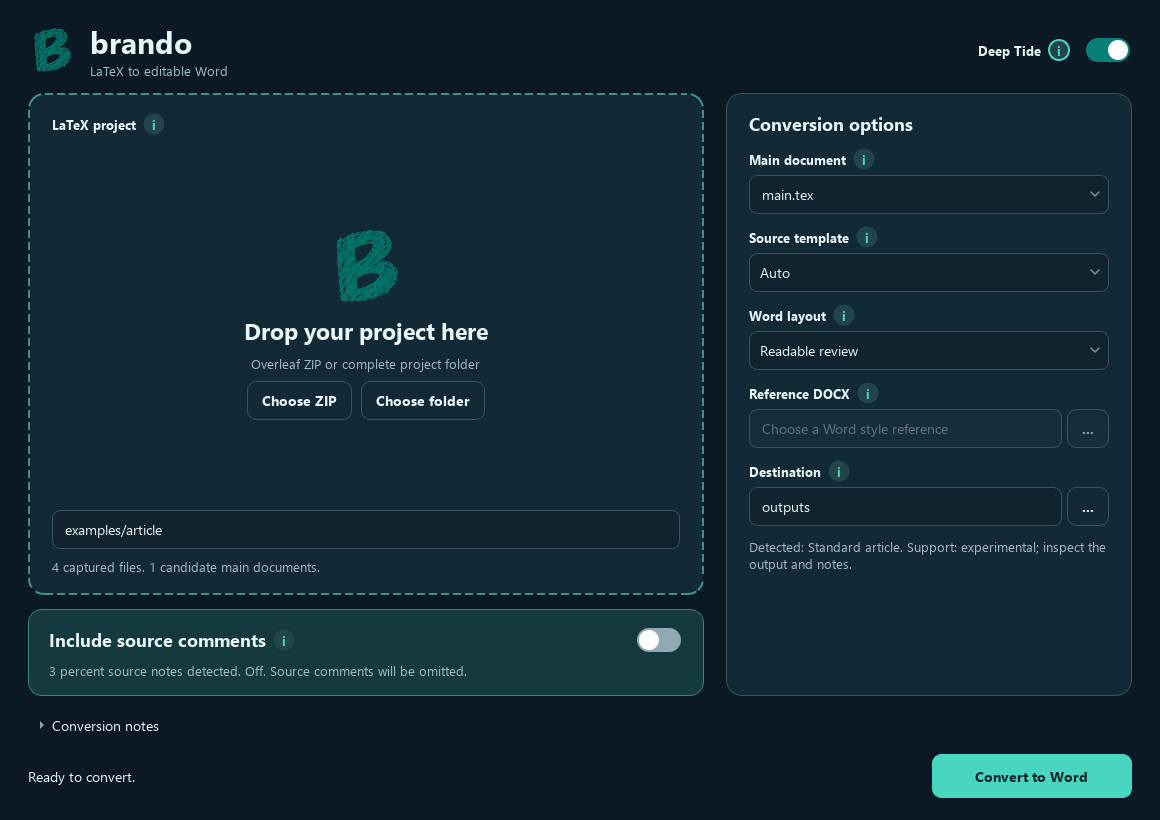
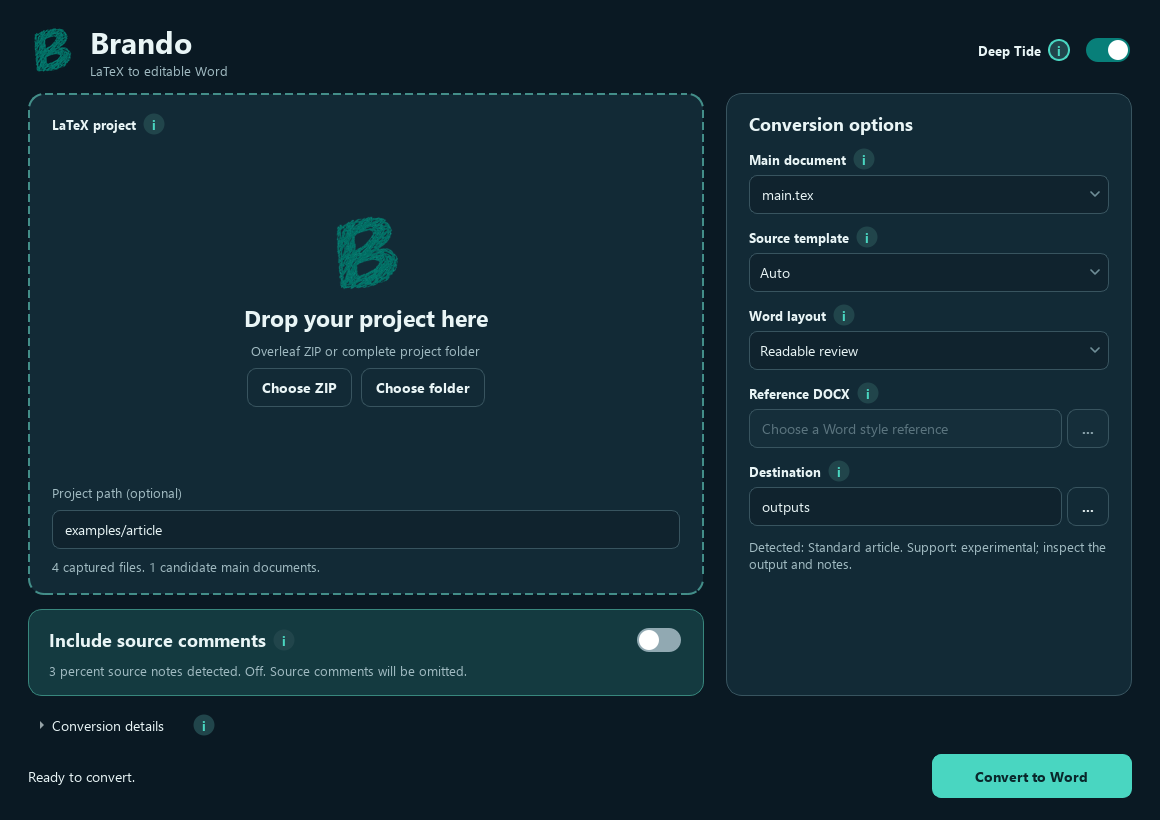
docs: explain conversion details and manual project entry

diff --git a/README.md b/README.md
@@ -15,7 +15,9 @@ directory together, unzip it to a writable local folder and open `Brando.exe`. E
 of this bundle do not need Python, Git, Pandoc or TeX. Public installation assets have not
 been published. See [build and validation instructions](docs/BUILDING.md).
 
-1. Select or drop an Overleaf **source ZIP** or a project folder.
+1. Select or drop an Overleaf **source ZIP** or a project folder. Alternatively, paste its
+   path in **Project path (optional)** and press **Enter** to load it. Moving focus alone
+   does not load a typed path; conversion stays disabled while a changed path is unconfirmed.
 2. Choose the main `.tex` file if there are several candidates. Convert separate supplements
    separately; independently compilable `subfiles` chapters are not automatically roots.
 3. Leave source template on **Auto**, or override it. Choose readable review styling or a
@@ -34,7 +36,13 @@ independent source observations and actual comment coverage.
 The Lagoon interface starts with a large project drop area and a dedicated source-comment
 control. The small **Deep Tide** slide in the header changes the color palette while preserving
 the layout and conversion choices. Each new window starts in Lagoon. Information buttons
-beside the options explain their effects. Conversion notes expand when needed.
+beside the options show short, wrapped help on hover or activation with the keyboard.
+**Conversion details** shows session progress, warnings and errors in a read-only panel.
+It becomes available after there is something to show, and opens automatically on errors
+or conversion warnings. The panel explains where the saved notes and report are stored.
+`conversion-notes.txt` is the readable export summary; `conversion-report.json` contains
+the full diagnostic and coverage details. Both are saved beside `manuscript.docx` in the
+new export folder. These diagnostics are separate from the source comments inside Word.
 
 ![Lagoon desktop](docs/images/desktop.png)
 

diff --git a/docs/VALIDATION.md b/docs/VALIDATION.md
@@ -4,7 +4,7 @@ Updated 2026-11-11. Development host is Windows x86-64, CPython 3.12.16.
 
 ## Completed evidence
 
-- Full synthetic regression suite completed with 46 passing tests on the Windows host.
+- Full synthetic regression suite completed with 49 passing tests on the Windows host.
   It includes Qt offscreen scan, conversion, drop and ambiguous-root behavior, numerical
   tampering detection, nested-main paths, encoding adaptation and inline annotation opt-in.
   A simulated report-write failure also verifies cleanup without a partial export.
@@ -14,6 +14,14 @@ Updated 2026-11-11. Development host is Windows x86-64, CPython 3.12.16.
   the captured project. GUI regressions cover comments on/off, adjacent option information,
   the underscore export directory and an unreadable optional comment preview.
   The maintained screenshot shows the current interface.
+- Information controls were exercised with mouse hover, click and keyboard activation in both
+  palettes. Help stays anchored while the pointer moves within the button; actual multiline
+  rendering stays below 340 pixels wide. Eighteen rendered tips across both themes were
+  measured. The Brando wordmark uses its capital B. Manual path input loads only on Enter;
+  changing focus does not import an unfinished path, and draft edits disable stale conversion.
+  The details panel is unavailable while empty and explains progress/warnings, the saved note
+  and report filenames, and their distinction from Word comments. Compact error captures retain
+  visible conversion actions.
 - The selected Lagoon desktop has a large drop target and prominent source-comment switch.
   Deep Tide changes colors in place. Keyboard theme activation preserves widget geometry,
   captured input and conversion choices, including during conversion. ZIP and folder drop

diff --git a/docs/ARCHITECTURE.md b/docs/ARCHITECTURE.md
@@ -17,7 +17,11 @@
 - `gui.py`: PySide6 Widgets controls, background tasks, local drag/drop and output opening.
   Import and conversion never block the UI thread. Word is opened only on user action.
 - `widgets.py` provides the large project drop target, keyboard-operable switches and option
-  information controls. `appearance.py` applies Lagoon or Deep Tide to the same widget tree.
+  information controls. Help wraps within a bounded tooltip, with a short hover delay and
+  stable placement beside its control; click/Space opens it and Escape dismisses it.
+  Manual project paths load on Enter, with draft edits disabling conversion of an older snapshot.
+  The read-only details panel explains session messages and their saved export counterparts.
+  `appearance.py` applies Lagoon or Deep Tide to the same widget tree.
   The theme choice is local to the window session. Compact windows scroll the content while
   conversion actions remain available.
 - `desktop.py` isolates Windows application identity and per-window native title-bar colors.

diff --git a/AGENTS.md b/AGENTS.md
@@ -2,6 +2,7 @@
 
 Brando is an independent, local desktop Overleaf/LaTeX project to editable DOCX converter.
 Communicate with Giacomo in concise Italian. Keep code, documentation and reports in English.
+Spell the product name **Brando** with a capital B in user-facing text.
 
 ## Resume and working memory
 
